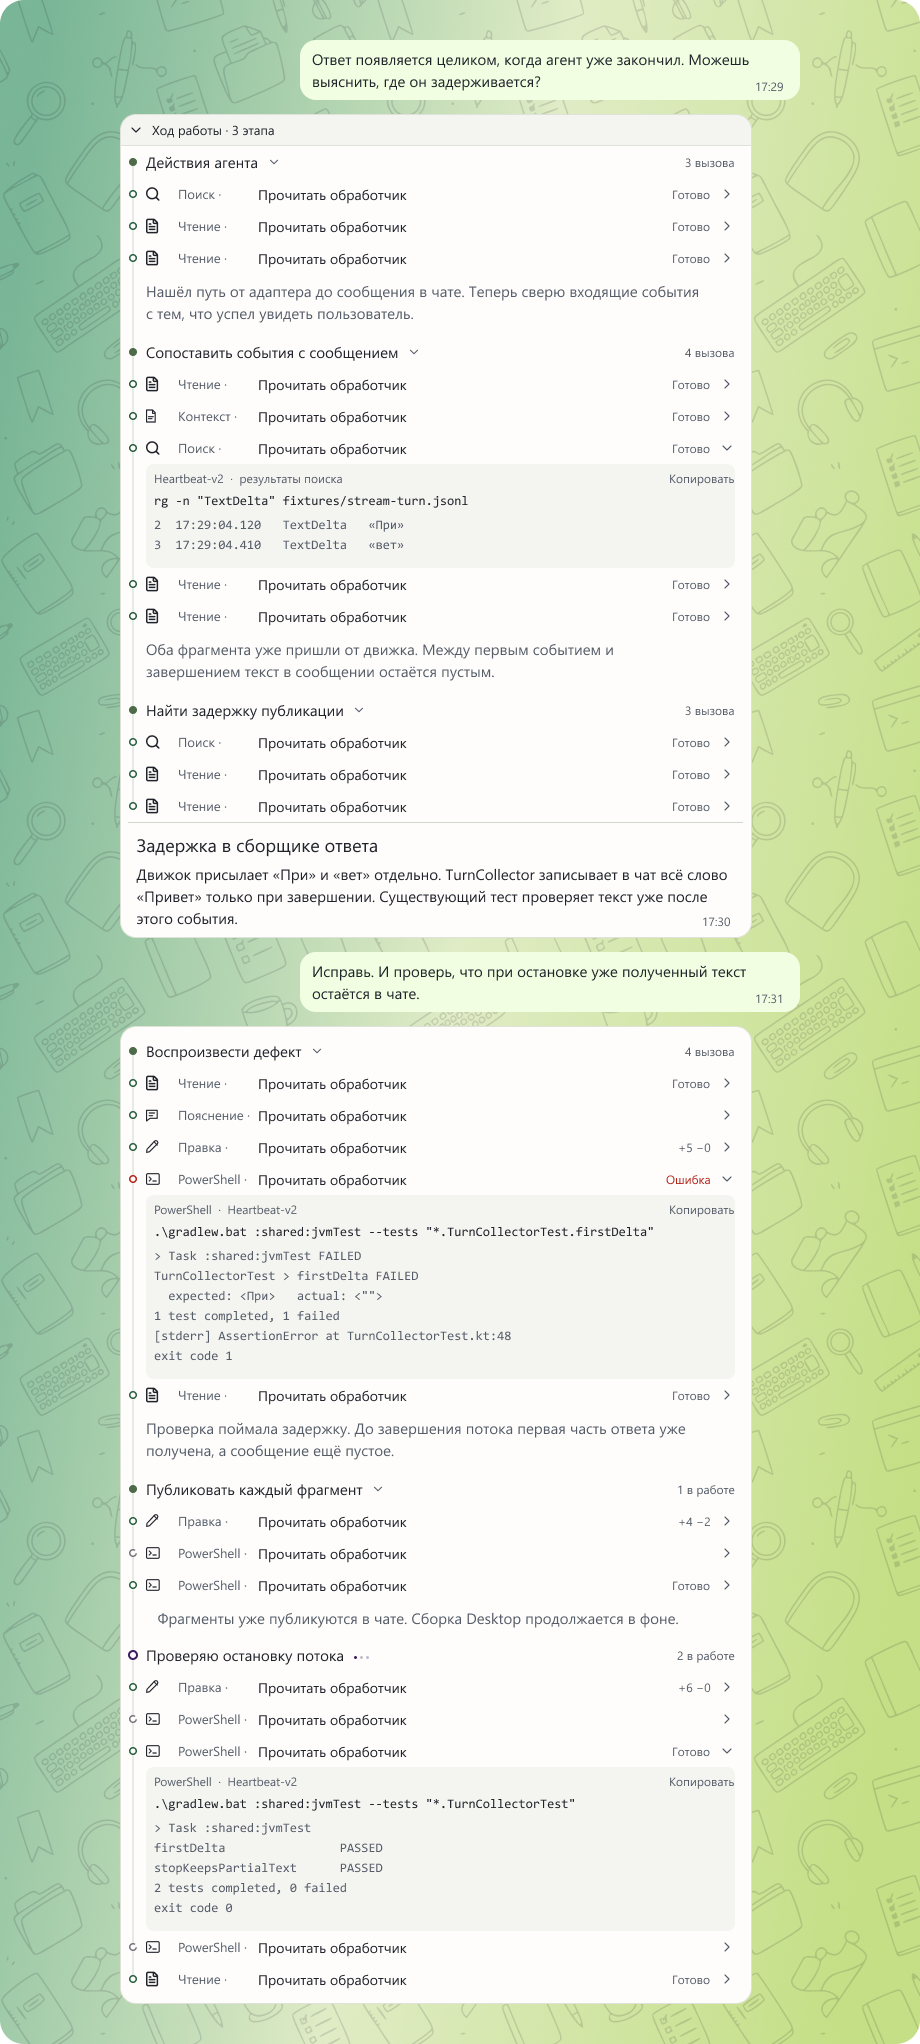
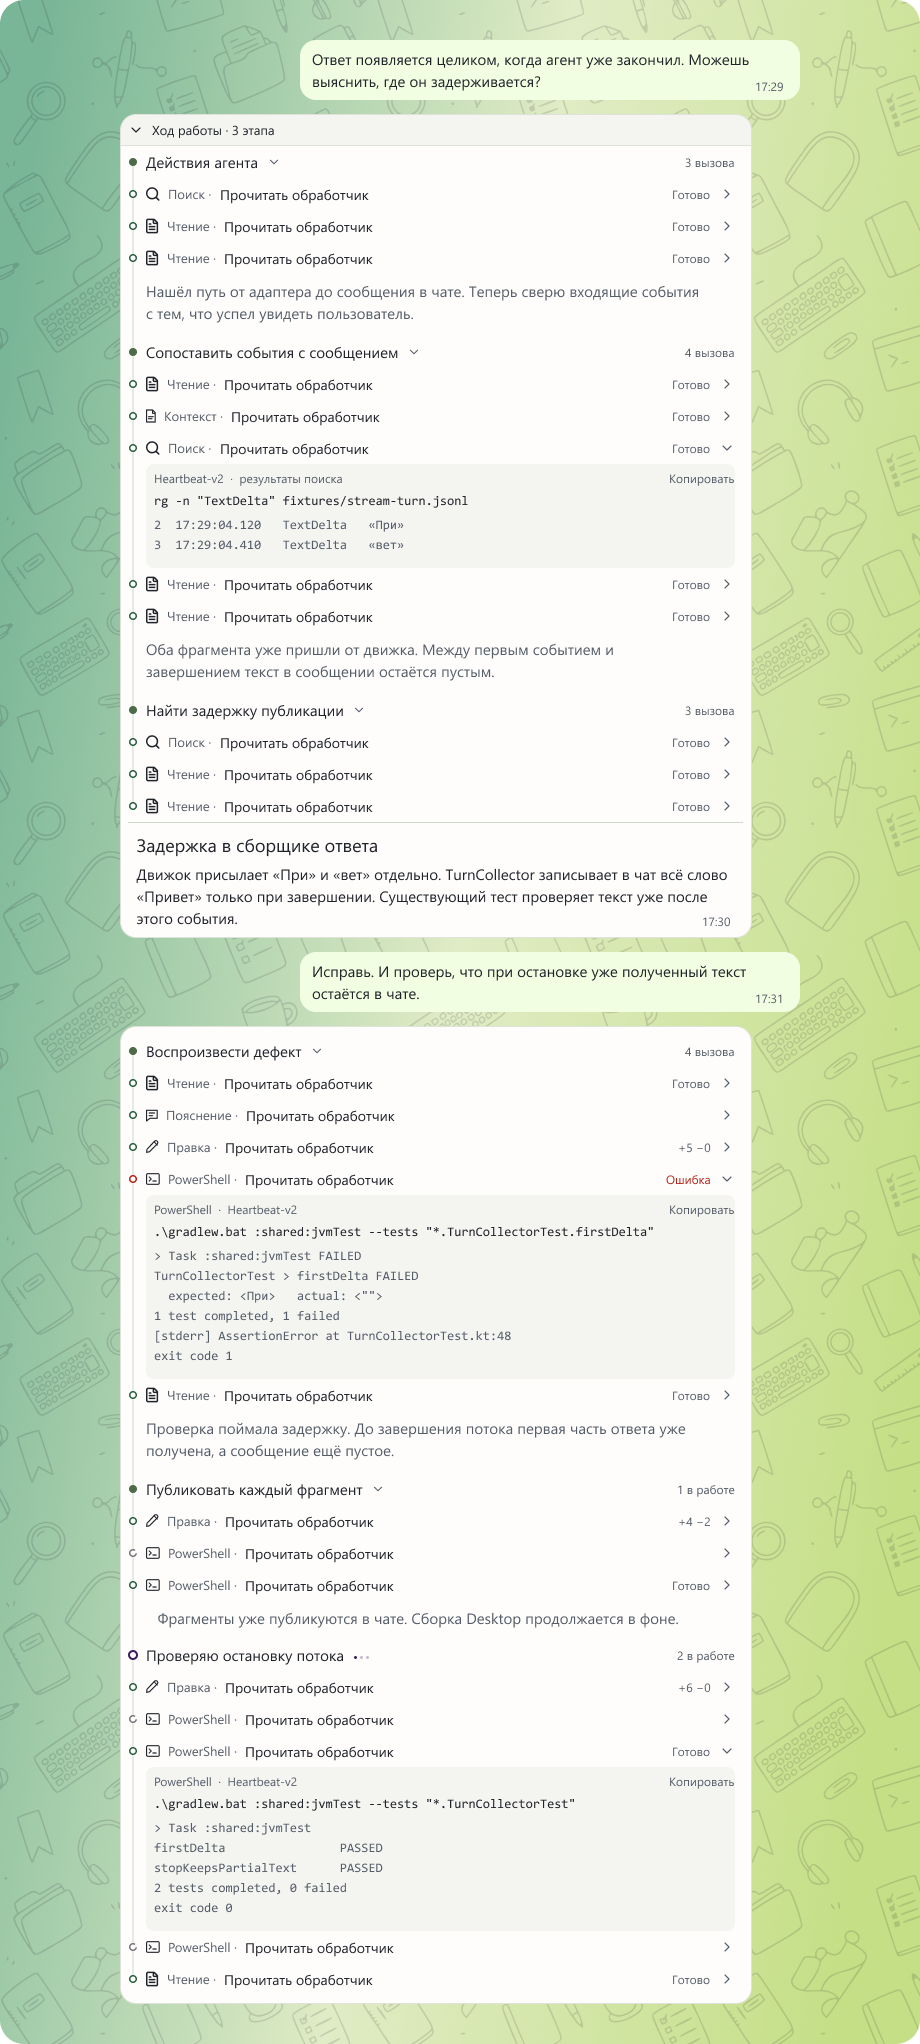
Use equal gaps around Desktop tool labels

diff --git a/specs/desktop-aurora-agent-workspace.md b/specs/desktop-aurora-agent-workspace.md
@@ -44,7 +44,7 @@
 
 Левый край текста заголовка этапа совпадает с внешним контуром иконки инструмента с учётом толщины штриха. Внутренние поля исходной пиктограммы учитываются отдельно для лупы, файла и остальных инструментов. [Фрагмент макета](../previews/desktop-agent-turns/stage-icon-alignment.png)
 
-В раскрытом этапе заголовок, промежуточный итог, колонка иконок инструментов и фон подробностей начинаются на одной вертикали. Для типа операции отведено 72 dp, затем через 8 dp начинается путь или описание вызова. Длинный путь сокращается внутри своей колонки. Счётчик этапа и шевроны вызовов выровнены по правому краю. У раскрытого вывода внутренний отступ слева — 8 dp. [Снимок двух ходов](../previews/desktop-agent-turns/longread.png)
+В раскрытом этапе заголовок, промежуточный итог, колонка иконок инструментов и фон подробностей начинаются на одной вертикали. От иконки до названия операции — 8 dp. Подпись занимает ширину текста вместе с разделителем «·», а через следующие 8 dp начинается путь или описание вызова. Длинный путь сокращается внутри своей колонки. Счётчик этапа и шевроны вызовов выровнены по правому краю. У раскрытого вывода внутренний отступ слева — 8 dp. [Снимок двух ходов](../previews/desktop-agent-turns/longread.png)
 
 В хронологии маркеры занимают колонку шириной 10 dp с отступом 8 dp от левого края облачка. Линия проходит в 13 dp от края, через центры закрашенной точки диаметром 8 dp и фиолетового кольца диаметром 10 dp. При продолжении работы линия соединяет последнюю завершённую операцию и новый активный ход. [Снимок продолжения](../previews/desktop-agent-turns/resumed-timeline.png). [Снимок с тремя завершёнными этапами](../previews/desktop-agent-turns/stage-marker-inset.png)
 
